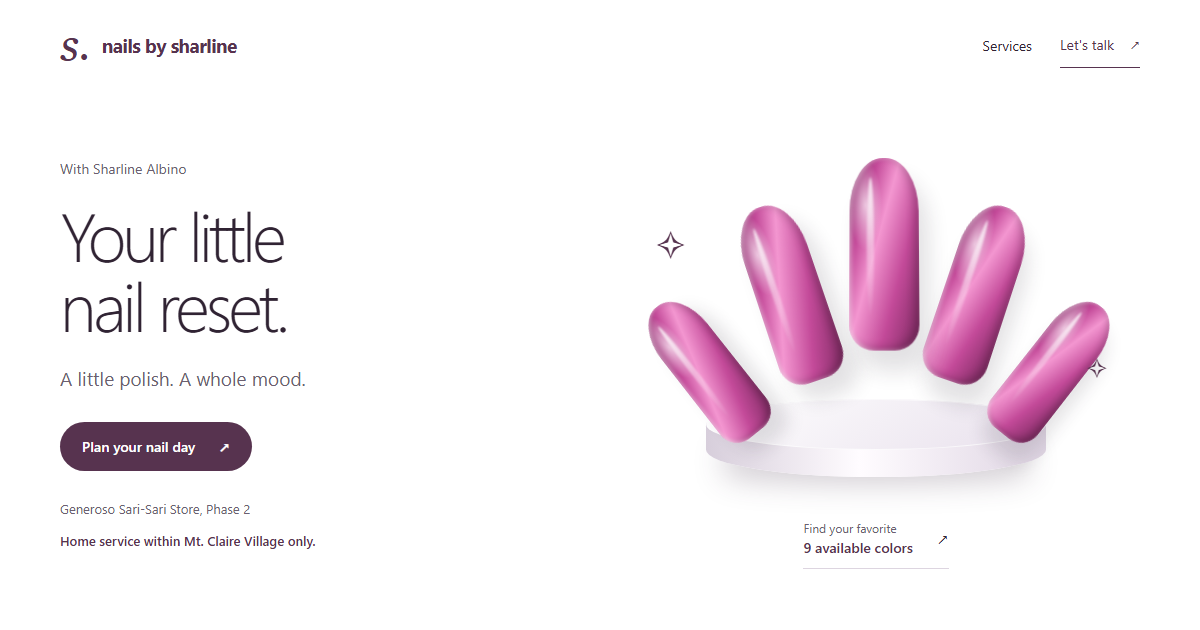
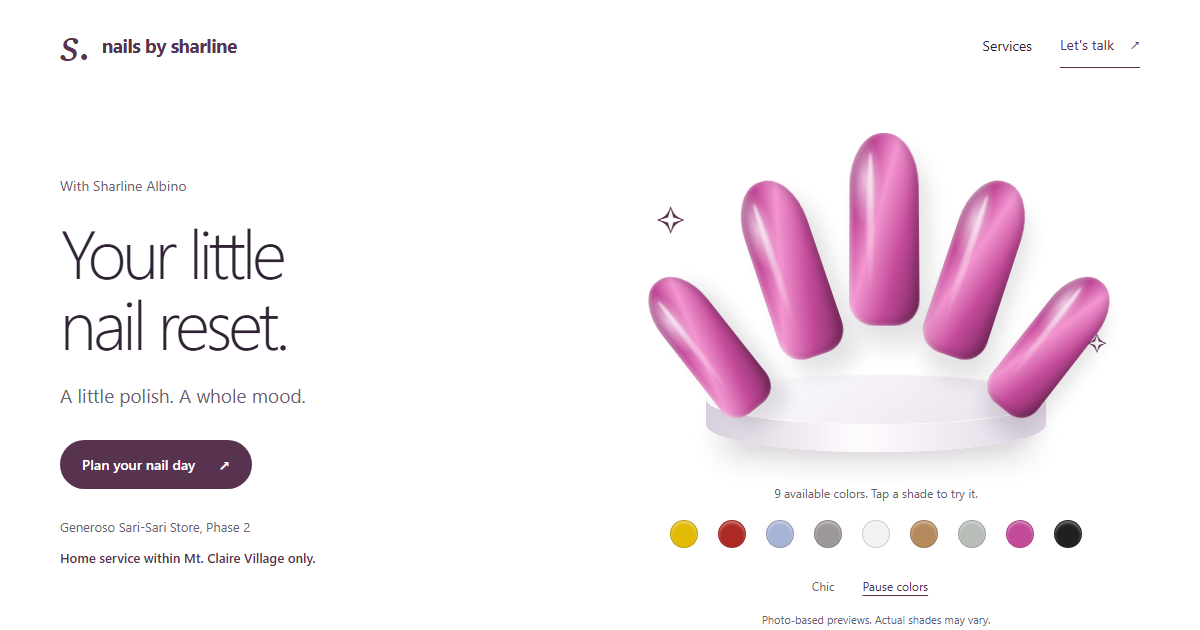
Move interactive color swatches into the hero nail preview

diff --git a/index.html b/index.html
@@ -10,8 +10,8 @@
   <meta property="og:type" content="website">
   <meta property="og:site_name" content="Nails by Sharline">
   <meta property="og:url" content="https://nails-by-sharline.vercel.app/">
-  <meta property="og:image" content="https://nails-by-sharline.vercel.app/assets/hero-preview.png?v=6">
-  <meta property="og:image:secure_url" content="https://nails-by-sharline.vercel.app/assets/hero-preview.png?v=6">
+  <meta property="og:image" content="https://nails-by-sharline.vercel.app/assets/hero-preview.png?v=7">
+  <meta property="og:image:secure_url" content="https://nails-by-sharline.vercel.app/assets/hero-preview.png?v=7">
   <meta property="og:image:type" content="image/png">
   <meta property="og:image:width" content="1200">
   <meta property="og:image:height" content="630">
@@ -19,7 +19,7 @@
   <meta name="twitter:card" content="summary_large_image">
   <meta name="twitter:title" content="Nails by Sharline | Your little nail reset.">
   <meta name="twitter:description" content="Nail services at Generoso Sari-Sari Store, Phase 2, Mt. Claire Village. Home service within Mt. Claire Village only.">
-  <meta name="twitter:image" content="https://nails-by-sharline.vercel.app/assets/hero-preview.png?v=6">
+  <meta name="twitter:image" content="https://nails-by-sharline.vercel.app/assets/hero-preview.png?v=7">
   <link rel="canonical" href="https://nails-by-sharline.vercel.app/">
   <title>Nails by Sharline | Nail services</title>
   <link rel="icon" href="./favicon.svg" type="image/svg+xml">
@@ -48,12 +48,26 @@
           <div class="nail-fan"><div class="nail nail-1"></div><div class="nail nail-2"></div><div class="nail nail-3"></div><div class="nail nail-4"></div><div class="nail nail-5"></div></div>
           <div class="pedestal"></div><span class="spark spark-1">✧</span><span class="spark spark-2">✧</span>
         </div>
-        <a class="palette" href="#colors"><p>Find your favorite <span>9 available colors</span></p><span aria-hidden="true">↗</span></a>
+        <div class="hero-palette" id="colors">
+          <p class="palette-intro">9 available colors. Tap a shade to try it.</p>
+          <div class="hero-swatches" role="group" aria-label="Available nail colors">
+            <button type="button" data-color="Banana boat" aria-label="Preview Banana boat" title="Banana boat" aria-pressed="false"><span aria-hidden="true" class="color-dot"></span></button>
+            <button type="button" data-color="Lucky red" aria-label="Preview Lucky red" title="Lucky red" aria-pressed="false"><span aria-hidden="true" class="color-dot"></span></button>
+            <button type="button" data-color="Blue suede" aria-label="Preview Blue suede" title="Blue suede" aria-pressed="false"><span aria-hidden="true" class="color-dot"></span></button>
+            <button type="button" data-color="Ashley" aria-label="Preview Ashley" title="Ashley" aria-pressed="false"><span aria-hidden="true" class="color-dot"></span></button>
+            <button type="button" data-color="White satin" aria-label="Preview White satin" title="White satin" aria-pressed="false"><span aria-hidden="true" class="color-dot"></span></button>
+            <button type="button" data-color="Touch of tan" aria-label="Preview Touch of tan" title="Touch of tan" aria-pressed="false"><span aria-hidden="true" class="color-dot"></span></button>
+            <button type="button" data-color="Almond" aria-label="Preview Almond" title="Almond" aria-pressed="false"><span aria-hidden="true" class="color-dot"></span></button>
+            <button type="button" data-color="Chic" aria-label="Preview Chic" title="Chic" aria-pressed="false"><span aria-hidden="true" class="color-dot"></span></button>
+            <button type="button" data-color="Pure black" aria-label="Preview Pure black" title="Pure black" aria-pressed="false"><span aria-hidden="true" class="color-dot"></span></button>
+          </div>
+          <span id="color-preview-name" class="visually-hidden" role="status"></span>
+        </div>
         <div class="color-playback">
           <span id="hero-color-name">Chic</span>
           <button id="color-playback" type="button" aria-label="Pause automatic color preview">Pause colors</button>
         </div>
-        
+        <p class="hero-shade-note">Photo-based previews. Actual shades may vary.</p>
       </div>
     </section>
     <section class="services wrap" id="services" aria-labelledby="services-title">
@@ -65,7 +79,7 @@
         <a class="service" href="#contact" data-service="Foot Spa + Pedicure"><span class="service-symbol" aria-hidden="true">≈</span><div><h3>Foot spa + pedicure</h3></div><span class="price">₱300</span><span class="service-arrow" aria-hidden="true">↗</span></a>
         <a class="service" href="#contact" data-service="Manicure + Pedicure + Foot Spa"><span class="service-symbol" aria-hidden="true">✧</span><div><h3>All three</h3><p>Manicure + pedicure + foot spa.</p></div><span class="price">₱400</span><span class="service-arrow" aria-hidden="true">↗</span></a>
       </div>
-      <div class="color-menu" id="colors"><h3>Available colors</h3><p>Choose a shade. See it on the nail preview.</p><div class="color-display"><div class="color-options" role="group" aria-label="Available nail colors"><button type="button" data-color="Banana boat" aria-pressed="false">Banana boat</button><button type="button" data-color="Lucky red" aria-pressed="false">Lucky red</button><button type="button" data-color="Blue suede" aria-pressed="false">Blue suede</button><button type="button" data-color="Ashley" aria-pressed="false">Ashley</button><button type="button" data-color="White satin" aria-pressed="false">White satin</button><button type="button" data-color="Touch of tan" aria-pressed="false">Touch of tan</button><button type="button" data-color="Almond" aria-pressed="false">Almond</button><button type="button" data-color="Chic" aria-pressed="false">Chic</button><button type="button" data-color="Pure black" aria-pressed="false">Pure black</button></div><div class="color-preview"><div class="sample-stage" aria-hidden="true"><div class="nail sample-nail"></div><div class="sample-shadow"></div></div><p class="color-preview-name" id="color-preview-name" role="status">Preview: Chic</p><p class="shade-note">Photo-based previews. Actual shades may vary.</p></div></div></div>
+
     </section>
     <section class="contact wrap" id="contact" aria-labelledby="contact-title">
       <div class="contact-copy"><h2 id="contact-title">Message me<br>on Facebook.</h2><p>Visit Sharline at <strong>Generoso Sari-Sari Store</strong>,<br>Phase 2, Mt. Claire Village.</p><p><strong>Prefer to stay home?</strong><br>Home service within Mt. Claire Village only.</p><a class="facebook-contact" href="https://www.facebook.com/sharlinemae.albino.71" target="_blank" rel="noopener noreferrer">Sharline Albino (Camille) on Facebook <span aria-hidden="true">↗</span></a><p class="preferred-contact">Facebook is the preferred way to reach Sharline.</p></div>

diff --git a/style.css b/style.css
@@ -47,3 +47,15 @@ select{font-size:15px;color:var(--ink);width:100%;min-height:48px;padding:12px 1
 .color-playback button{min-height:44px;padding:8px 12px;background:transparent;border:0;border-radius:8px;color:var(--plum);font:inherit;text-decoration:underline;text-underline-offset:4px;cursor:pointer}
 .color-playback button:hover{background:var(--panel)}
 .color-playback button[hidden]{display:none}
+
+.hero-palette{margin-top:0;scroll-margin-top:24px}
+.palette-intro{margin:0 0 10px;color:var(--muted);font-size:12px}
+.hero-swatches{display:flex;flex-wrap:wrap;justify-content:center;gap:4px;max-width:432px;margin-inline:auto}
+.hero-swatches button{display:grid;place-items:center;flex:0 0 44px;width:44px;height:44px;padding:6px;border:1px solid transparent;border-radius:50%;background:transparent;cursor:pointer;transition:border-color .2s,background .2s}
+.color-dot{width:28px;height:28px;border-radius:50%;background:var(--swatch);border:1px solid #30233330;box-shadow:inset 0 2px 3px #ffffff66}
+.hero-swatches button:hover{background:var(--panel)}
+.hero-swatches button[aria-pressed=true]{border-color:var(--plum);background:var(--panel)}
+.hero-shade-note{font-size:11px;color:var(--muted);margin:4px 0 0}
+.visually-hidden{position:absolute;width:1px;height:1px;padding:0;margin:-1px;overflow:hidden;clip-path:inset(50%);white-space:nowrap;border:0}
+
+@media(max-width:1000px){.hero-swatches{max-width:240px}}

diff --git a/script.js b/script.js
@@ -20,10 +20,6 @@ Object.entries(colorShades).forEach(([name, shades]) => {
   button?.style.setProperty('--swatch', shades[0]);
 });
 function updateColorPreview(name) {
-  const shades = colorShades[name] || colorShades.Chic;
-  ['--shade', '--shade-light', '--shade-dark'].forEach((property, index) => {
-    document.documentElement.style.setProperty(property, shades[index]);
-  });
   document.querySelector('#color-preview-name').textContent = `Preview: ${name || 'Chic'}`;
 }
 updateColorPreview('Chic');

diff --git a/DESIGN.md b/DESIGN.md
@@ -7,3 +7,5 @@ Layout: poster headline and one sculptural nail fan; plain price rows; a consist
 Review: removed redundant large slogans, decorative service symbols and repeated nail fans. Use shared spacing and corner sizes. Keep menus legible, the inquiry preview optional, and contact steps concise. Preserve actual services, colors, visit limits and contact preferences.
 
 Hero color preview: cycles through the nine photo-based approximate shades every 6.5 seconds with a 1.6-second opacity crossfade. Uses sparse timers, pauses offscreen or in a hidden tab, and respects reduced motion. Pause/play is explicit; choosing a color stops autoplay. Hero cycling never alters the inquiry or its selected color.
+
+Color selection now lives beside the hero fan as nine accessible 44px swatch buttons. The separate lower color grid and nail preview have been consolidated into the hero. Clicking a shade pauses cycling and includes that shade in the inquiry.
